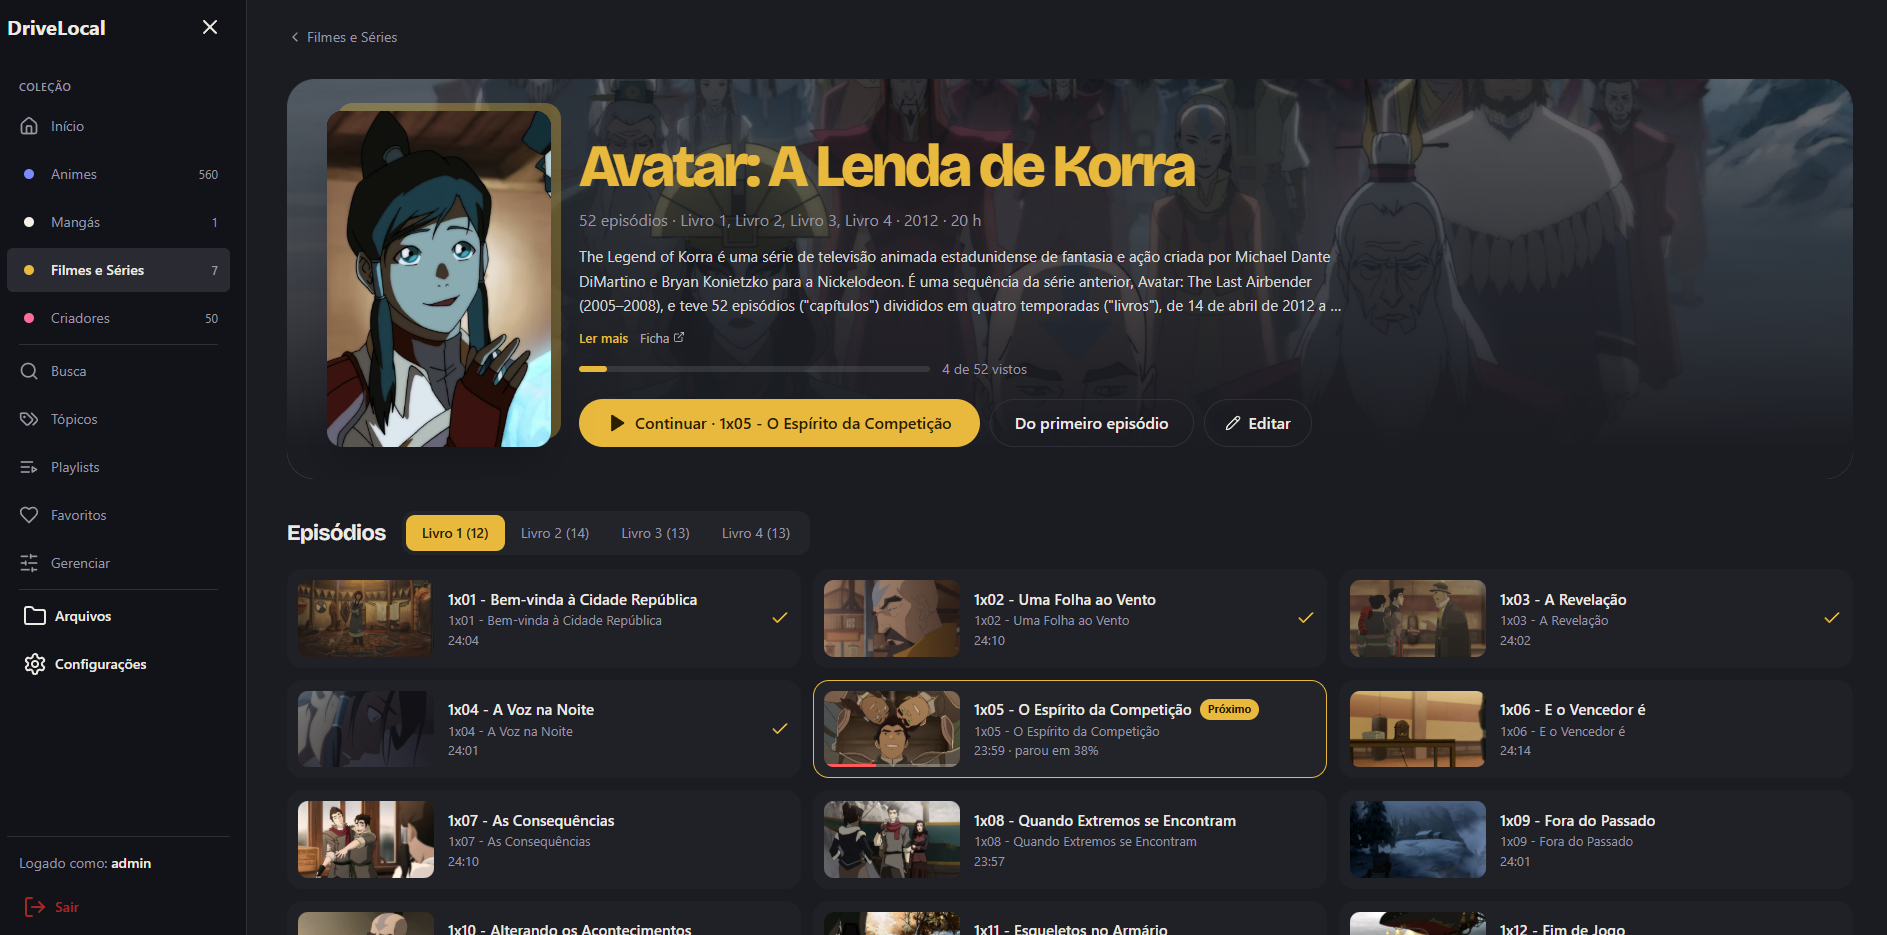
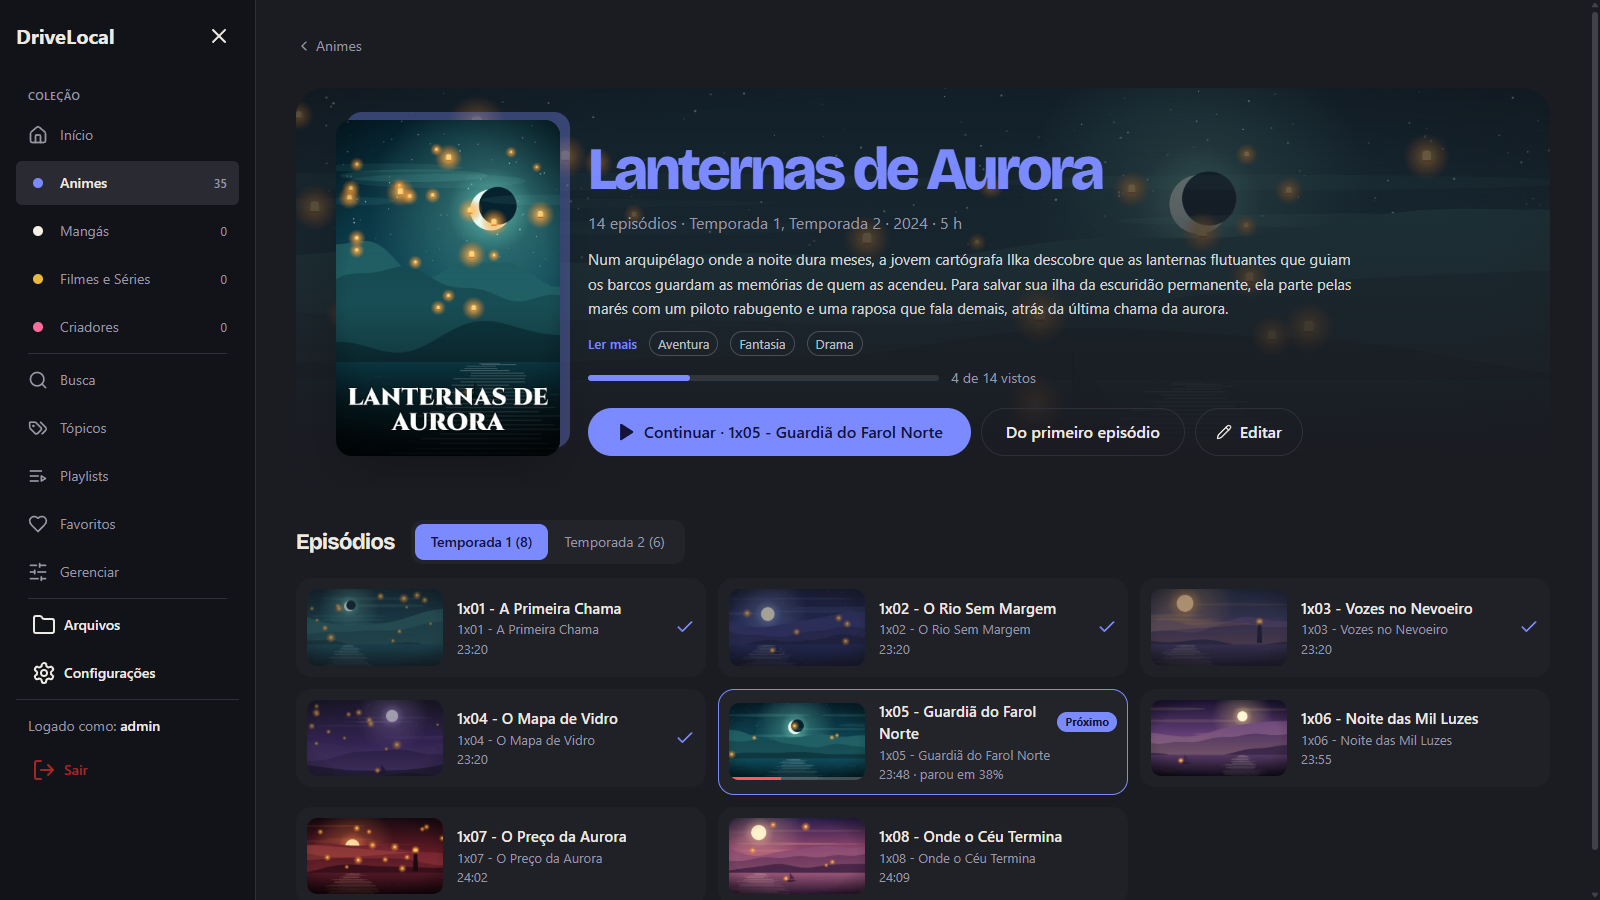
Use fictional demo content in README screenshots and add architecture diagram

diff --git a/README.pt-BR.md b/README.pt-BR.md
@@ -49,6 +49,8 @@ Pasta cheia de `.mkv` não é biblioteca. O DriveLocal varre suas pastas e trans
 - **Detecção de duplicatas** de séries e criadores escritos de jeitos diferentes (token set ratio, Jaro-Winkler e contenção), com fusão que guarda os apelidos e pode ser desfeita
 - **Regras, operações em lote com dry-run, histórico e desfazer** para tudo que altera o catálogo
 
+![Como o DriveLocal se conecta](./docs/assets/architecture.pt-BR.png)
+
 ### Pensado para agentes
 
 O DriveLocal tem **tokens de API** e uma CLI, `drivelocal-cli`. Um agente de IA (Claude Code, ou qualquer assistente com shell ou ferramentas MCP) busca no catálogo, consulta metadados, monta um lote, roda em dry-run e depois aplica ou desfaz. Curadoria em massa vira conversa, não uma tarde inteira clicando.
@@ -57,7 +59,7 @@ O DriveLocal tem **tokens de API** e uma CLI, `drivelocal-cli`. Um agente de IA 
 export DRIVELOCAL_URL=http://localhost
 export DRIVELOCAL_TOKEN=dlt_...          # criado por um admin: POST /api/admin/library/tokens
 
-drivelocal-cli search "korra"
+drivelocal-cli search "aurora"
 drivelocal-cli review --kind topic       # sugestões pendentes da IA
 drivelocal-cli accept 812 813
 drivelocal-cli batch ajustes.json --dry  # confere antes

diff --git a/README.md b/README.md
@@ -49,6 +49,8 @@ Folders full of `.mkv` files are not a library. DriveLocal scans them and turns 
 - **Duplicate detection** for series and creators with different spellings (token set ratio, Jaro-Winkler and containment), with merges that keep aliases and can be undone
 - **Rules, batch operations with dry-run, change history and undo** for everything that edits the catalog
 
+![How DriveLocal fits together](./docs/assets/architecture.png)
+
 ### Built for agents
 
 DriveLocal has **API tokens** and a CLI, `drivelocal-cli`. An AI agent (Claude Code, or any assistant with shell or MCP tools) can search the catalog, look up metadata, prepare a batch, run it as a dry-run, then apply or undo it. Bulk curation becomes a conversation instead of an afternoon of clicking.
@@ -57,7 +59,7 @@ DriveLocal has **API tokens** and a CLI, `drivelocal-cli`. An AI agent (Claude C
 export DRIVELOCAL_URL=http://localhost
 export DRIVELOCAL_TOKEN=dlt_...        # created by an admin: POST /api/admin/library/tokens
 
-drivelocal-cli search "korra"
+drivelocal-cli search "aurora"
 drivelocal-cli review --kind topic     # pending AI suggestions
 drivelocal-cli accept 812 813
 drivelocal-cli batch fixes.json --dry  # preview first
